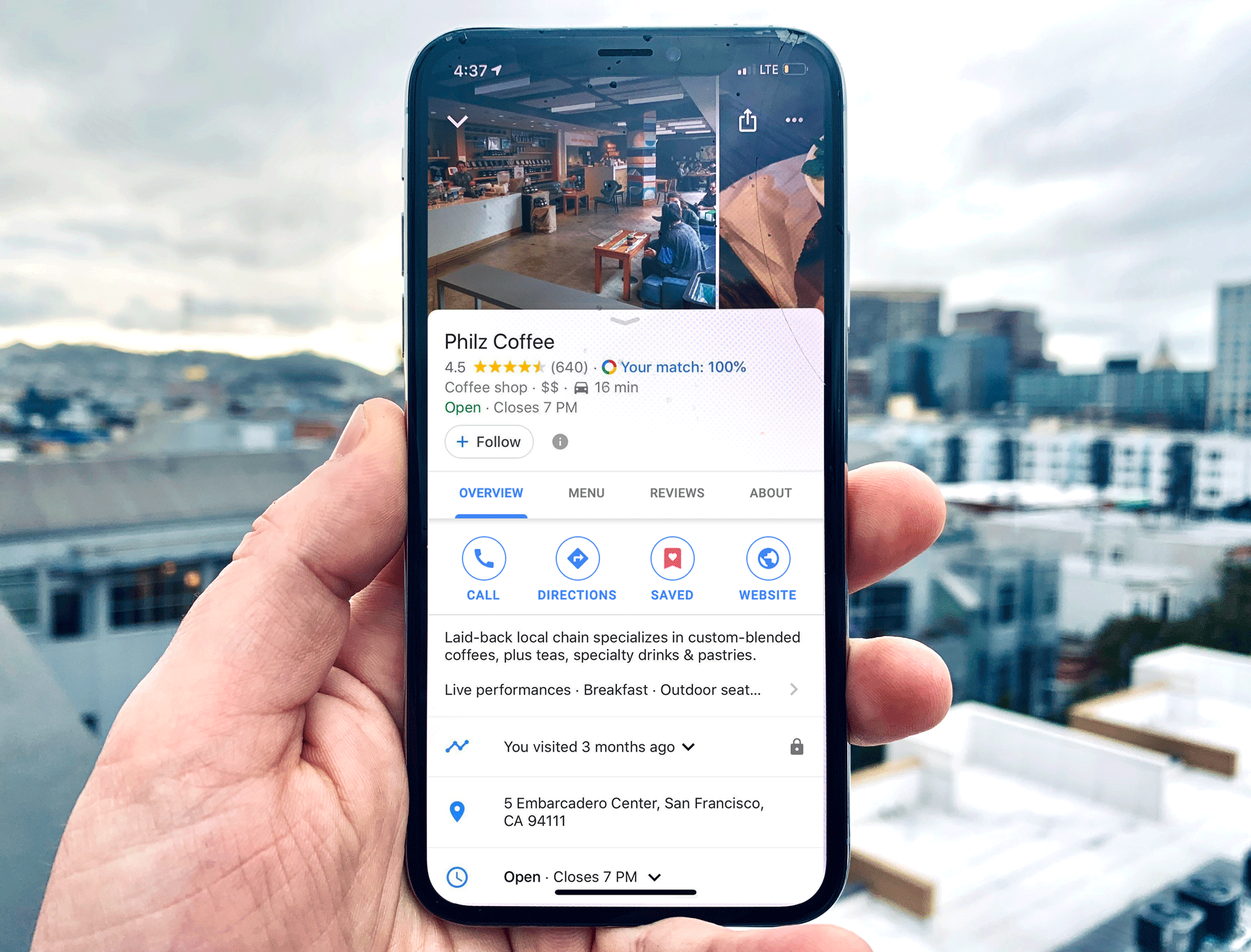
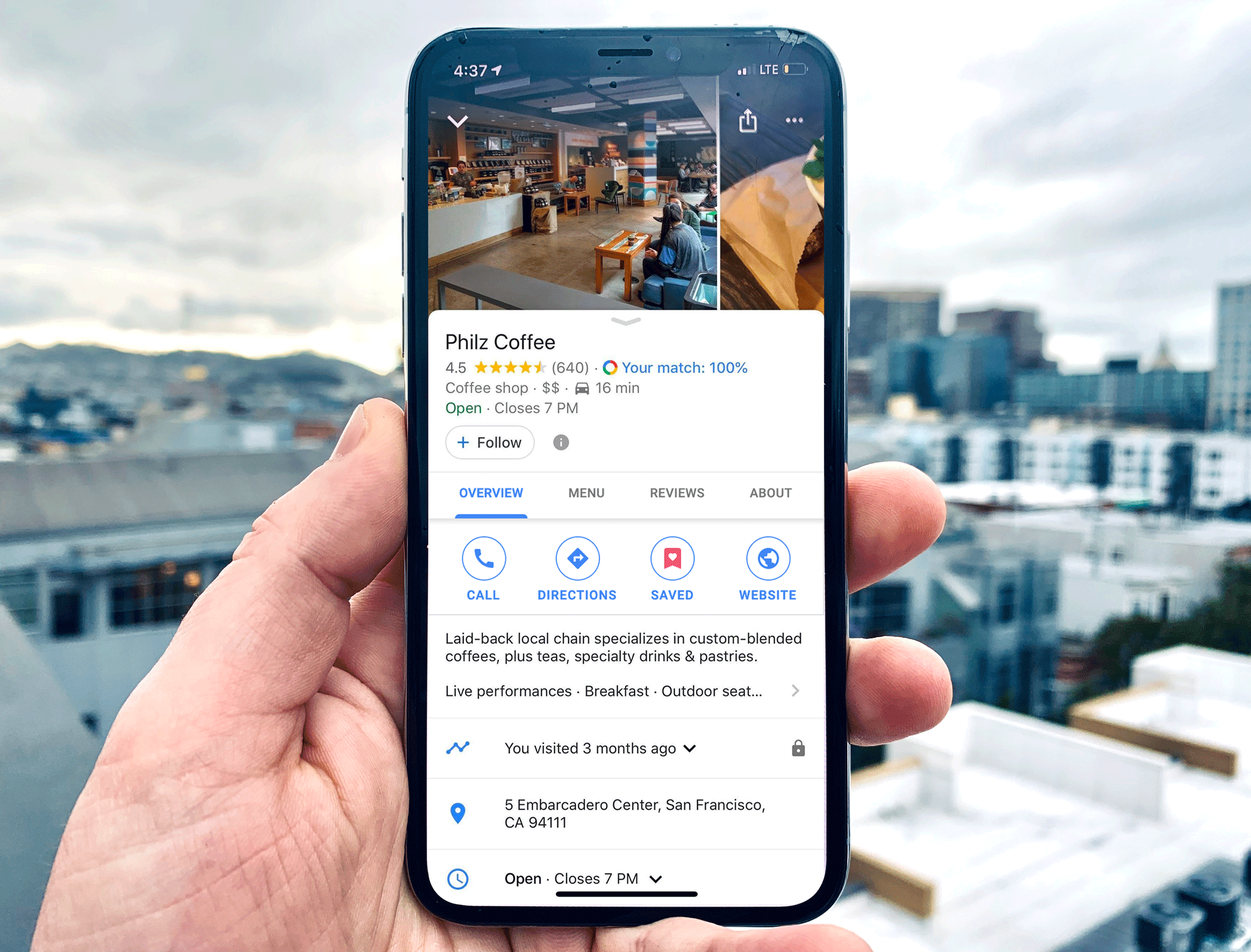
mod and hero image fixes

diff --git a/index.html b/index.html
@@ -1,6 +1,6 @@
 <!DOCTYPE html>
 <!--  This site was created in Webflow. http://www.webflow.com  -->
-<!--  Last Published: Sun Mar 10 2019 04:51:09 GMT+0000 (UTC)  -->
+<!--  Last Published: Sun Mar 10 2019 05:20:04 GMT+0000 (UTC)  -->
 <html data-wf-page="5c682f883ca6bd5b96341db9" data-wf-site="5c682f883ca6bd550a341db6">
 <head>
   <meta charset="utf-8">
@@ -201,7 +201,7 @@
     <a id="w-node-583f31672148-96341db9" href="javascript:delay(&#x27;/work/mod&#x27;)" class="link-block block_hero w-inline-block">
       <div class="case_study_label">
         <p class="paragraph case_study_label paragraph">Case Study<br></p>
-      </div><img src="images/Screen-Shot-2019-03-09-at-8.47.48-PM.png" srcset="images/Screen-Shot-2019-03-09-at-8.47.48-PM.png 500w, images/Screen-Shot-2019-03-09-at-8.47.48-PM.png 800w, images/Screen-Shot-2019-03-09-at-8.47.48-PM.png 1080w, images/Screen-Shot-2019-03-09-at-8.47.48-PM.png 1400w" sizes="100vw" alt="" class="thumb body_wide_thumb"></a>
+      </div><img src="images/Screen-Shot-2019-03-09-at-9.16.31-PM.png" srcset="images/Screen-Shot-2019-03-09-at-9.16.31-PM.png 500w, images/Screen-Shot-2019-03-09-at-9.16.31-PM.png 800w, images/Screen-Shot-2019-03-09-at-9.16.31-PM.png 1080w, images/Screen-Shot-2019-03-09-at-9.16.31-PM.png 1400w" sizes="100vw" alt="" class="thumb body_wide_thumb"></a>
   </div>
   <div class="w-layout-grid grid client_grid">
     <a id="w-node-d55bcbaaee77-96341db9" href="javascript:delay(&#x27;/work/zero-suggest&#x27;)" class="link-block block_hero w-inline-block">
@@ -276,7 +276,7 @@
         <h1 class="heading white centered">More things</h1>
         <h1 class="heading sub_heading white centered">Case Studies &amp; Experimental work</h1>
       </div>
-      <div class="w-layout-grid grid client_grid"><a id="w-node-2e2c5c173b9d-8a41de80" href="javascript:delay(&#x27;/work/live-popular-times&#x27;)" class="link-block block_hero w-inline-block"><img src="images/live.gif" alt="" class="thumb body_wide_thumb"></a><a id="w-node-182beba822ea-8a41de80" href="javascript:delay(&#x27;/work/mod&#x27;)" class="link-block block_hero w-inline-block"><img src="images/Screen-Shot-2019-03-09-at-8.47.48-PM.png" srcset="images/Screen-Shot-2019-03-09-at-8.47.48-PM.png 500w, images/Screen-Shot-2019-03-09-at-8.47.48-PM.png 800w, images/Screen-Shot-2019-03-09-at-8.47.48-PM.png 1080w, images/Screen-Shot-2019-03-09-at-8.47.48-PM.png 1400w" sizes="100vw" alt="" class="thumb body_wide_thumb"></a><a id="w-node-2e2c5c173b9f-8a41de80" href="https://dribbble.com/shots/5764349-Profile" target="_blank" class="link-block block_hero w-inline-block"><img src="images/sittinbythefire_4x.png" srcset="images/sittinbythefire_4x-p-500.png 500w, images/sittinbythefire_4x-p-800.png 800w, images/sittinbythefire_4x-p-1080.png 1080w, images/sittinbythefire_4x.png 1599w" sizes="100vw" alt="" class="thumb body_wide_thumb"></a><a href="javascript:delay(&#x27;/work/bookings&#x27;)" class="link-block block_hero w-inline-block"><img src="images/Screen-Shot-2019-02-17-at-10.57.33-AM.png" srcset="images/Screen-Shot-2019-02-17-at-10.57.33-AM-p-500.png 500w, images/Screen-Shot-2019-02-17-at-10.57.33-AM-p-800.png 800w, images/Screen-Shot-2019-02-17-at-10.57.33-AM-p-1080.png 1080w, images/Screen-Shot-2019-02-17-at-10.57.33-AM.png 1196w" sizes="100vw" alt="" class="thumb body_wide_thumb"></a></div>
+      <div class="w-layout-grid grid client_grid"><a id="w-node-2e2c5c173b9d-8a41de80" href="javascript:delay(&#x27;/work/live-popular-times&#x27;)" class="link-block block_hero w-inline-block"><img src="images/live.gif" alt="" class="thumb body_wide_thumb"></a><a id="w-node-182beba822ea-8a41de80" href="javascript:delay(&#x27;/work/mod&#x27;)" class="link-block block_hero w-inline-block"><img src="images/Screen-Shot-2019-03-09-at-9.16.31-PM.png" srcset="images/Screen-Shot-2019-03-09-at-9.16.31-PM.png 500w, images/Screen-Shot-2019-03-09-at-9.16.31-PM.png 800w, images/Screen-Shot-2019-03-09-at-9.16.31-PM.png 1080w, images/Screen-Shot-2019-03-09-at-9.16.31-PM.png 1400w" sizes="100vw" alt="" class="thumb body_wide_thumb"></a><a id="w-node-2e2c5c173b9f-8a41de80" href="https://dribbble.com/shots/5764349-Profile" target="_blank" class="link-block block_hero w-inline-block"><img src="images/sittinbythefire_4x.png" srcset="images/sittinbythefire_4x-p-500.png 500w, images/sittinbythefire_4x-p-800.png 800w, images/sittinbythefire_4x-p-1080.png 1080w, images/sittinbythefire_4x.png 1599w" sizes="100vw" alt="" class="thumb body_wide_thumb"></a><a href="javascript:delay(&#x27;/work/bookings&#x27;)" class="link-block block_hero w-inline-block"><img src="images/Screen-Shot-2019-02-17-at-10.57.33-AM.png" srcset="images/Screen-Shot-2019-02-17-at-10.57.33-AM-p-500.png 500w, images/Screen-Shot-2019-02-17-at-10.57.33-AM-p-800.png 800w, images/Screen-Shot-2019-02-17-at-10.57.33-AM-p-1080.png 1080w, images/Screen-Shot-2019-02-17-at-10.57.33-AM.png 1196w" sizes="100vw" alt="" class="thumb body_wide_thumb"></a></div>
       <div class="container_wrap footer_avatar w-container"><img src="images/favicon.png" alt="" class="image-2"></div>
     </div>
   </div>

diff --git a/work/bookings.html b/work/bookings.html
@@ -1,6 +1,6 @@
 <!DOCTYPE html>
 <!--  This site was created in Webflow. http://www.webflow.com  -->
-<!--  Last Published: Sun Mar 10 2019 04:51:09 GMT+0000 (UTC)  -->
+<!--  Last Published: Sun Mar 10 2019 05:20:04 GMT+0000 (UTC)  -->
 <html data-wf-page="5c682f883ca6bd24ac341dc2" data-wf-site="5c682f883ca6bd550a341db6">
 <head>
   <meta charset="utf-8">
@@ -202,7 +202,7 @@
         <h1 class="heading white centered">More things</h1>
         <h1 class="heading sub_heading white centered">Case Studies &amp; Experimental work</h1>
       </div>
-      <div class="w-layout-grid grid client_grid"><a id="w-node-2e2c5c173b9d-8a41de80" href="javascript:delay(&#x27;/work/live-popular-times&#x27;)" class="link-block block_hero w-inline-block"><img src="../images/live.gif" alt="" class="thumb body_wide_thumb"></a><a id="w-node-182beba822ea-8a41de80" href="javascript:delay(&#x27;/work/mod&#x27;)" class="link-block block_hero w-inline-block"><img src="../images/Screen-Shot-2019-03-09-at-8.47.48-PM.png" srcset="../images/Screen-Shot-2019-03-09-at-8.47.48-PM.png 500w, ../images/Screen-Shot-2019-03-09-at-8.47.48-PM.png 800w, ../images/Screen-Shot-2019-03-09-at-8.47.48-PM.png 1080w, ../images/Screen-Shot-2019-03-09-at-8.47.48-PM.png 1400w" sizes="100vw" alt="" class="thumb body_wide_thumb"></a><a id="w-node-2e2c5c173b9f-8a41de80" href="https://dribbble.com/shots/5764349-Profile" target="_blank" class="link-block block_hero w-inline-block"><img src="../images/sittinbythefire_4x.png" srcset="../images/sittinbythefire_4x-p-500.png 500w, ../images/sittinbythefire_4x-p-800.png 800w, ../images/sittinbythefire_4x-p-1080.png 1080w, ../images/sittinbythefire_4x.png 1599w" sizes="100vw" alt="" class="thumb body_wide_thumb"></a><a href="javascript:delay(&#x27;/work/bookings&#x27;)" class="link-block block_hero w-inline-block"><img src="../images/Screen-Shot-2019-02-17-at-10.57.33-AM.png" srcset="../images/Screen-Shot-2019-02-17-at-10.57.33-AM-p-500.png 500w, ../images/Screen-Shot-2019-02-17-at-10.57.33-AM-p-800.png 800w, ../images/Screen-Shot-2019-02-17-at-10.57.33-AM-p-1080.png 1080w, ../images/Screen-Shot-2019-02-17-at-10.57.33-AM.png 1196w" sizes="100vw" alt="" class="thumb body_wide_thumb"></a></div>
+      <div class="w-layout-grid grid client_grid"><a id="w-node-2e2c5c173b9d-8a41de80" href="javascript:delay(&#x27;/work/live-popular-times&#x27;)" class="link-block block_hero w-inline-block"><img src="../images/live.gif" alt="" class="thumb body_wide_thumb"></a><a id="w-node-182beba822ea-8a41de80" href="javascript:delay(&#x27;/work/mod&#x27;)" class="link-block block_hero w-inline-block"><img src="../images/Screen-Shot-2019-03-09-at-9.16.31-PM.png" srcset="../images/Screen-Shot-2019-03-09-at-9.16.31-PM.png 500w, ../images/Screen-Shot-2019-03-09-at-9.16.31-PM.png 800w, ../images/Screen-Shot-2019-03-09-at-9.16.31-PM.png 1080w, ../images/Screen-Shot-2019-03-09-at-9.16.31-PM.png 1400w" sizes="100vw" alt="" class="thumb body_wide_thumb"></a><a id="w-node-2e2c5c173b9f-8a41de80" href="https://dribbble.com/shots/5764349-Profile" target="_blank" class="link-block block_hero w-inline-block"><img src="../images/sittinbythefire_4x.png" srcset="../images/sittinbythefire_4x-p-500.png 500w, ../images/sittinbythefire_4x-p-800.png 800w, ../images/sittinbythefire_4x-p-1080.png 1080w, ../images/sittinbythefire_4x.png 1599w" sizes="100vw" alt="" class="thumb body_wide_thumb"></a><a href="javascript:delay(&#x27;/work/bookings&#x27;)" class="link-block block_hero w-inline-block"><img src="../images/Screen-Shot-2019-02-17-at-10.57.33-AM.png" srcset="../images/Screen-Shot-2019-02-17-at-10.57.33-AM-p-500.png 500w, ../images/Screen-Shot-2019-02-17-at-10.57.33-AM-p-800.png 800w, ../images/Screen-Shot-2019-02-17-at-10.57.33-AM-p-1080.png 1080w, ../images/Screen-Shot-2019-02-17-at-10.57.33-AM.png 1196w" sizes="100vw" alt="" class="thumb body_wide_thumb"></a></div>
       <div class="container_wrap footer_avatar w-container"><img src="../images/favicon.png" alt="" class="image-2"></div>
     </div>
   </div>

diff --git a/work/google-my-business.html b/work/google-my-business.html
@@ -1,6 +1,6 @@
 <!DOCTYPE html>
 <!--  This site was created in Webflow. http://www.webflow.com  -->
-<!--  Last Published: Sun Mar 10 2019 04:51:09 GMT+0000 (UTC)  -->
+<!--  Last Published: Sun Mar 10 2019 05:20:04 GMT+0000 (UTC)  -->
 <html data-wf-page="5c682f883ca6bd4e06341dbf" data-wf-site="5c682f883ca6bd550a341db6">
 <head>
   <meta charset="utf-8">
@@ -203,7 +203,7 @@
         <h1 class="heading white centered">More things</h1>
         <h1 class="heading sub_heading white centered">Case Studies &amp; Experimental work</h1>
       </div>
-      <div class="w-layout-grid grid client_grid"><a id="w-node-2e2c5c173b9d-8a41de80" href="javascript:delay(&#x27;/work/live-popular-times&#x27;)" class="link-block block_hero w-inline-block"><img src="../images/live.gif" alt="" class="thumb body_wide_thumb"></a><a id="w-node-182beba822ea-8a41de80" href="javascript:delay(&#x27;/work/mod&#x27;)" class="link-block block_hero w-inline-block"><img src="../images/Screen-Shot-2019-03-09-at-8.47.48-PM.png" srcset="../images/Screen-Shot-2019-03-09-at-8.47.48-PM.png 500w, ../images/Screen-Shot-2019-03-09-at-8.47.48-PM.png 800w, ../images/Screen-Shot-2019-03-09-at-8.47.48-PM.png 1080w, ../images/Screen-Shot-2019-03-09-at-8.47.48-PM.png 1400w" sizes="100vw" alt="" class="thumb body_wide_thumb"></a><a id="w-node-2e2c5c173b9f-8a41de80" href="https://dribbble.com/shots/5764349-Profile" target="_blank" class="link-block block_hero w-inline-block"><img src="../images/sittinbythefire_4x.png" srcset="../images/sittinbythefire_4x-p-500.png 500w, ../images/sittinbythefire_4x-p-800.png 800w, ../images/sittinbythefire_4x-p-1080.png 1080w, ../images/sittinbythefire_4x.png 1599w" sizes="100vw" alt="" class="thumb body_wide_thumb"></a><a href="javascript:delay(&#x27;/work/bookings&#x27;)" class="link-block block_hero w-inline-block"><img src="../images/Screen-Shot-2019-02-17-at-10.57.33-AM.png" srcset="../images/Screen-Shot-2019-02-17-at-10.57.33-AM-p-500.png 500w, ../images/Screen-Shot-2019-02-17-at-10.57.33-AM-p-800.png 800w, ../images/Screen-Shot-2019-02-17-at-10.57.33-AM-p-1080.png 1080w, ../images/Screen-Shot-2019-02-17-at-10.57.33-AM.png 1196w" sizes="100vw" alt="" class="thumb body_wide_thumb"></a></div>
+      <div class="w-layout-grid grid client_grid"><a id="w-node-2e2c5c173b9d-8a41de80" href="javascript:delay(&#x27;/work/live-popular-times&#x27;)" class="link-block block_hero w-inline-block"><img src="../images/live.gif" alt="" class="thumb body_wide_thumb"></a><a id="w-node-182beba822ea-8a41de80" href="javascript:delay(&#x27;/work/mod&#x27;)" class="link-block block_hero w-inline-block"><img src="../images/Screen-Shot-2019-03-09-at-9.16.31-PM.png" srcset="../images/Screen-Shot-2019-03-09-at-9.16.31-PM.png 500w, ../images/Screen-Shot-2019-03-09-at-9.16.31-PM.png 800w, ../images/Screen-Shot-2019-03-09-at-9.16.31-PM.png 1080w, ../images/Screen-Shot-2019-03-09-at-9.16.31-PM.png 1400w" sizes="100vw" alt="" class="thumb body_wide_thumb"></a><a id="w-node-2e2c5c173b9f-8a41de80" href="https://dribbble.com/shots/5764349-Profile" target="_blank" class="link-block block_hero w-inline-block"><img src="../images/sittinbythefire_4x.png" srcset="../images/sittinbythefire_4x-p-500.png 500w, ../images/sittinbythefire_4x-p-800.png 800w, ../images/sittinbythefire_4x-p-1080.png 1080w, ../images/sittinbythefire_4x.png 1599w" sizes="100vw" alt="" class="thumb body_wide_thumb"></a><a href="javascript:delay(&#x27;/work/bookings&#x27;)" class="link-block block_hero w-inline-block"><img src="../images/Screen-Shot-2019-02-17-at-10.57.33-AM.png" srcset="../images/Screen-Shot-2019-02-17-at-10.57.33-AM-p-500.png 500w, ../images/Screen-Shot-2019-02-17-at-10.57.33-AM-p-800.png 800w, ../images/Screen-Shot-2019-02-17-at-10.57.33-AM-p-1080.png 1080w, ../images/Screen-Shot-2019-02-17-at-10.57.33-AM.png 1196w" sizes="100vw" alt="" class="thumb body_wide_thumb"></a></div>
       <div class="container_wrap footer_avatar w-container"><img src="../images/favicon.png" alt="" class="image-2"></div>
     </div>
   </div>

diff --git a/work/live-popular-times.html b/work/live-popular-times.html
@@ -1,6 +1,6 @@
 <!DOCTYPE html>
 <!--  This site was created in Webflow. http://www.webflow.com  -->
-<!--  Last Published: Sun Mar 10 2019 04:51:09 GMT+0000 (UTC)  -->
+<!--  Last Published: Sun Mar 10 2019 05:20:04 GMT+0000 (UTC)  -->
 <html data-wf-page="5c682f883ca6bd3308341dbe" data-wf-site="5c682f883ca6bd550a341db6">
 <head>
   <meta charset="utf-8">
@@ -207,7 +207,7 @@
         <h1 class="heading white centered">More things</h1>
         <h1 class="heading sub_heading white centered">Case Studies &amp; Experimental work</h1>
       </div>
-      <div class="w-layout-grid grid client_grid"><a id="w-node-2e2c5c173b9d-8a41de80" href="javascript:delay(&#x27;/work/live-popular-times&#x27;)" class="link-block block_hero w-inline-block"><img src="../images/live.gif" alt="" class="thumb body_wide_thumb"></a><a id="w-node-182beba822ea-8a41de80" href="javascript:delay(&#x27;/work/mod&#x27;)" class="link-block block_hero w-inline-block"><img src="../images/Screen-Shot-2019-03-09-at-8.47.48-PM.png" srcset="../images/Screen-Shot-2019-03-09-at-8.47.48-PM.png 500w, ../images/Screen-Shot-2019-03-09-at-8.47.48-PM.png 800w, ../images/Screen-Shot-2019-03-09-at-8.47.48-PM.png 1080w, ../images/Screen-Shot-2019-03-09-at-8.47.48-PM.png 1400w" sizes="100vw" alt="" class="thumb body_wide_thumb"></a><a id="w-node-2e2c5c173b9f-8a41de80" href="https://dribbble.com/shots/5764349-Profile" target="_blank" class="link-block block_hero w-inline-block"><img src="../images/sittinbythefire_4x.png" srcset="../images/sittinbythefire_4x-p-500.png 500w, ../images/sittinbythefire_4x-p-800.png 800w, ../images/sittinbythefire_4x-p-1080.png 1080w, ../images/sittinbythefire_4x.png 1599w" sizes="100vw" alt="" class="thumb body_wide_thumb"></a><a href="javascript:delay(&#x27;/work/bookings&#x27;)" class="link-block block_hero w-inline-block"><img src="../images/Screen-Shot-2019-02-17-at-10.57.33-AM.png" srcset="../images/Screen-Shot-2019-02-17-at-10.57.33-AM-p-500.png 500w, ../images/Screen-Shot-2019-02-17-at-10.57.33-AM-p-800.png 800w, ../images/Screen-Shot-2019-02-17-at-10.57.33-AM-p-1080.png 1080w, ../images/Screen-Shot-2019-02-17-at-10.57.33-AM.png 1196w" sizes="100vw" alt="" class="thumb body_wide_thumb"></a></div>
+      <div class="w-layout-grid grid client_grid"><a id="w-node-2e2c5c173b9d-8a41de80" href="javascript:delay(&#x27;/work/live-popular-times&#x27;)" class="link-block block_hero w-inline-block"><img src="../images/live.gif" alt="" class="thumb body_wide_thumb"></a><a id="w-node-182beba822ea-8a41de80" href="javascript:delay(&#x27;/work/mod&#x27;)" class="link-block block_hero w-inline-block"><img src="../images/Screen-Shot-2019-03-09-at-9.16.31-PM.png" srcset="../images/Screen-Shot-2019-03-09-at-9.16.31-PM.png 500w, ../images/Screen-Shot-2019-03-09-at-9.16.31-PM.png 800w, ../images/Screen-Shot-2019-03-09-at-9.16.31-PM.png 1080w, ../images/Screen-Shot-2019-03-09-at-9.16.31-PM.png 1400w" sizes="100vw" alt="" class="thumb body_wide_thumb"></a><a id="w-node-2e2c5c173b9f-8a41de80" href="https://dribbble.com/shots/5764349-Profile" target="_blank" class="link-block block_hero w-inline-block"><img src="../images/sittinbythefire_4x.png" srcset="../images/sittinbythefire_4x-p-500.png 500w, ../images/sittinbythefire_4x-p-800.png 800w, ../images/sittinbythefire_4x-p-1080.png 1080w, ../images/sittinbythefire_4x.png 1599w" sizes="100vw" alt="" class="thumb body_wide_thumb"></a><a href="javascript:delay(&#x27;/work/bookings&#x27;)" class="link-block block_hero w-inline-block"><img src="../images/Screen-Shot-2019-02-17-at-10.57.33-AM.png" srcset="../images/Screen-Shot-2019-02-17-at-10.57.33-AM-p-500.png 500w, ../images/Screen-Shot-2019-02-17-at-10.57.33-AM-p-800.png 800w, ../images/Screen-Shot-2019-02-17-at-10.57.33-AM-p-1080.png 1080w, ../images/Screen-Shot-2019-02-17-at-10.57.33-AM.png 1196w" sizes="100vw" alt="" class="thumb body_wide_thumb"></a></div>
       <div class="container_wrap footer_avatar w-container"><img src="../images/favicon.png" alt="" class="image-2"></div>
     </div>
   </div>

diff --git a/work/mod.html b/work/mod.html
@@ -1,6 +1,6 @@
 <!DOCTYPE html>
 <!--  This site was created in Webflow. http://www.webflow.com  -->
-<!--  Last Published: Sun Mar 10 2019 04:51:09 GMT+0000 (UTC)  -->
+<!--  Last Published: Sun Mar 10 2019 05:20:04 GMT+0000 (UTC)  -->
 <html data-wf-page="5c682f883ca6bd8cb0341dbd" data-wf-site="5c682f883ca6bd550a341db6">
 <head>
   <meta charset="utf-8">
@@ -209,7 +209,7 @@
         <h1 class="heading white centered">More things</h1>
         <h1 class="heading sub_heading white centered">Case Studies &amp; Experimental work</h1>
       </div>
-      <div class="w-layout-grid grid client_grid"><a id="w-node-2e2c5c173b9d-8a41de80" href="javascript:delay(&#x27;/work/live-popular-times&#x27;)" class="link-block block_hero w-inline-block"><img src="../images/live.gif" alt="" class="thumb body_wide_thumb"></a><a id="w-node-182beba822ea-8a41de80" href="javascript:delay(&#x27;/work/mod&#x27;)" class="link-block block_hero w-inline-block"><img src="../images/Screen-Shot-2019-03-09-at-8.47.48-PM.png" srcset="../images/Screen-Shot-2019-03-09-at-8.47.48-PM.png 500w, ../images/Screen-Shot-2019-03-09-at-8.47.48-PM.png 800w, ../images/Screen-Shot-2019-03-09-at-8.47.48-PM.png 1080w, ../images/Screen-Shot-2019-03-09-at-8.47.48-PM.png 1400w" sizes="100vw" alt="" class="thumb body_wide_thumb"></a><a id="w-node-2e2c5c173b9f-8a41de80" href="https://dribbble.com/shots/5764349-Profile" target="_blank" class="link-block block_hero w-inline-block"><img src="../images/sittinbythefire_4x.png" srcset="../images/sittinbythefire_4x-p-500.png 500w, ../images/sittinbythefire_4x-p-800.png 800w, ../images/sittinbythefire_4x-p-1080.png 1080w, ../images/sittinbythefire_4x.png 1599w" sizes="100vw" alt="" class="thumb body_wide_thumb"></a><a href="javascript:delay(&#x27;/work/bookings&#x27;)" class="link-block block_hero w-inline-block"><img src="../images/Screen-Shot-2019-02-17-at-10.57.33-AM.png" srcset="../images/Screen-Shot-2019-02-17-at-10.57.33-AM-p-500.png 500w, ../images/Screen-Shot-2019-02-17-at-10.57.33-AM-p-800.png 800w, ../images/Screen-Shot-2019-02-17-at-10.57.33-AM-p-1080.png 1080w, ../images/Screen-Shot-2019-02-17-at-10.57.33-AM.png 1196w" sizes="100vw" alt="" class="thumb body_wide_thumb"></a></div>
+      <div class="w-layout-grid grid client_grid"><a id="w-node-2e2c5c173b9d-8a41de80" href="javascript:delay(&#x27;/work/live-popular-times&#x27;)" class="link-block block_hero w-inline-block"><img src="../images/live.gif" alt="" class="thumb body_wide_thumb"></a><a id="w-node-182beba822ea-8a41de80" href="javascript:delay(&#x27;/work/mod&#x27;)" class="link-block block_hero w-inline-block"><img src="../images/Screen-Shot-2019-03-09-at-9.16.31-PM.png" srcset="../images/Screen-Shot-2019-03-09-at-9.16.31-PM.png 500w, ../images/Screen-Shot-2019-03-09-at-9.16.31-PM.png 800w, ../images/Screen-Shot-2019-03-09-at-9.16.31-PM.png 1080w, ../images/Screen-Shot-2019-03-09-at-9.16.31-PM.png 1400w" sizes="100vw" alt="" class="thumb body_wide_thumb"></a><a id="w-node-2e2c5c173b9f-8a41de80" href="https://dribbble.com/shots/5764349-Profile" target="_blank" class="link-block block_hero w-inline-block"><img src="../images/sittinbythefire_4x.png" srcset="../images/sittinbythefire_4x-p-500.png 500w, ../images/sittinbythefire_4x-p-800.png 800w, ../images/sittinbythefire_4x-p-1080.png 1080w, ../images/sittinbythefire_4x.png 1599w" sizes="100vw" alt="" class="thumb body_wide_thumb"></a><a href="javascript:delay(&#x27;/work/bookings&#x27;)" class="link-block block_hero w-inline-block"><img src="../images/Screen-Shot-2019-02-17-at-10.57.33-AM.png" srcset="../images/Screen-Shot-2019-02-17-at-10.57.33-AM-p-500.png 500w, ../images/Screen-Shot-2019-02-17-at-10.57.33-AM-p-800.png 800w, ../images/Screen-Shot-2019-02-17-at-10.57.33-AM-p-1080.png 1080w, ../images/Screen-Shot-2019-02-17-at-10.57.33-AM.png 1196w" sizes="100vw" alt="" class="thumb body_wide_thumb"></a></div>
       <div class="container_wrap footer_avatar w-container"><img src="../images/favicon.png" alt="" class="image-2"></div>
     </div>
   </div>

diff --git a/work/wait-times.html b/work/wait-times.html
@@ -1,6 +1,6 @@
 <!DOCTYPE html>
 <!--  This site was created in Webflow. http://www.webflow.com  -->
-<!--  Last Published: Sun Mar 10 2019 04:51:09 GMT+0000 (UTC)  -->
+<!--  Last Published: Sun Mar 10 2019 05:20:04 GMT+0000 (UTC)  -->
 <html data-wf-page="5c682f883ca6bd4a7d341dc1" data-wf-site="5c682f883ca6bd550a341db6">
 <head>
   <meta charset="utf-8">
@@ -205,7 +205,7 @@
         <h1 class="heading white centered">More things</h1>
         <h1 class="heading sub_heading white centered">Case Studies &amp; Experimental work</h1>
       </div>
-      <div class="w-layout-grid grid client_grid"><a id="w-node-2e2c5c173b9d-8a41de80" href="javascript:delay(&#x27;/work/live-popular-times&#x27;)" class="link-block block_hero w-inline-block"><img src="../images/live.gif" alt="" class="thumb body_wide_thumb"></a><a id="w-node-182beba822ea-8a41de80" href="javascript:delay(&#x27;/work/mod&#x27;)" class="link-block block_hero w-inline-block"><img src="../images/Screen-Shot-2019-03-09-at-8.47.48-PM.png" srcset="../images/Screen-Shot-2019-03-09-at-8.47.48-PM.png 500w, ../images/Screen-Shot-2019-03-09-at-8.47.48-PM.png 800w, ../images/Screen-Shot-2019-03-09-at-8.47.48-PM.png 1080w, ../images/Screen-Shot-2019-03-09-at-8.47.48-PM.png 1400w" sizes="100vw" alt="" class="thumb body_wide_thumb"></a><a id="w-node-2e2c5c173b9f-8a41de80" href="https://dribbble.com/shots/5764349-Profile" target="_blank" class="link-block block_hero w-inline-block"><img src="../images/sittinbythefire_4x.png" srcset="../images/sittinbythefire_4x-p-500.png 500w, ../images/sittinbythefire_4x-p-800.png 800w, ../images/sittinbythefire_4x-p-1080.png 1080w, ../images/sittinbythefire_4x.png 1599w" sizes="100vw" alt="" class="thumb body_wide_thumb"></a><a href="javascript:delay(&#x27;/work/bookings&#x27;)" class="link-block block_hero w-inline-block"><img src="../images/Screen-Shot-2019-02-17-at-10.57.33-AM.png" srcset="../images/Screen-Shot-2019-02-17-at-10.57.33-AM-p-500.png 500w, ../images/Screen-Shot-2019-02-17-at-10.57.33-AM-p-800.png 800w, ../images/Screen-Shot-2019-02-17-at-10.57.33-AM-p-1080.png 1080w, ../images/Screen-Shot-2019-02-17-at-10.57.33-AM.png 1196w" sizes="100vw" alt="" class="thumb body_wide_thumb"></a></div>
+      <div class="w-layout-grid grid client_grid"><a id="w-node-2e2c5c173b9d-8a41de80" href="javascript:delay(&#x27;/work/live-popular-times&#x27;)" class="link-block block_hero w-inline-block"><img src="../images/live.gif" alt="" class="thumb body_wide_thumb"></a><a id="w-node-182beba822ea-8a41de80" href="javascript:delay(&#x27;/work/mod&#x27;)" class="link-block block_hero w-inline-block"><img src="../images/Screen-Shot-2019-03-09-at-9.16.31-PM.png" srcset="../images/Screen-Shot-2019-03-09-at-9.16.31-PM.png 500w, ../images/Screen-Shot-2019-03-09-at-9.16.31-PM.png 800w, ../images/Screen-Shot-2019-03-09-at-9.16.31-PM.png 1080w, ../images/Screen-Shot-2019-03-09-at-9.16.31-PM.png 1400w" sizes="100vw" alt="" class="thumb body_wide_thumb"></a><a id="w-node-2e2c5c173b9f-8a41de80" href="https://dribbble.com/shots/5764349-Profile" target="_blank" class="link-block block_hero w-inline-block"><img src="../images/sittinbythefire_4x.png" srcset="../images/sittinbythefire_4x-p-500.png 500w, ../images/sittinbythefire_4x-p-800.png 800w, ../images/sittinbythefire_4x-p-1080.png 1080w, ../images/sittinbythefire_4x.png 1599w" sizes="100vw" alt="" class="thumb body_wide_thumb"></a><a href="javascript:delay(&#x27;/work/bookings&#x27;)" class="link-block block_hero w-inline-block"><img src="../images/Screen-Shot-2019-02-17-at-10.57.33-AM.png" srcset="../images/Screen-Shot-2019-02-17-at-10.57.33-AM-p-500.png 500w, ../images/Screen-Shot-2019-02-17-at-10.57.33-AM-p-800.png 800w, ../images/Screen-Shot-2019-02-17-at-10.57.33-AM-p-1080.png 1080w, ../images/Screen-Shot-2019-02-17-at-10.57.33-AM.png 1196w" sizes="100vw" alt="" class="thumb body_wide_thumb"></a></div>
       <div class="container_wrap footer_avatar w-container"><img src="../images/favicon.png" alt="" class="image-2"></div>
     </div>
   </div>

diff --git a/work/zero-suggest.html b/work/zero-suggest.html
@@ -1,6 +1,6 @@
 <!DOCTYPE html>
 <!--  This site was created in Webflow. http://www.webflow.com  -->
-<!--  Last Published: Sun Mar 10 2019 04:51:09 GMT+0000 (UTC)  -->
+<!--  Last Published: Sun Mar 10 2019 05:20:04 GMT+0000 (UTC)  -->
 <html data-wf-page="5c682f883ca6bd58c1341dc0" data-wf-site="5c682f883ca6bd550a341db6">
 <head>
   <meta charset="utf-8">
@@ -203,7 +203,7 @@
         <h1 class="heading white centered">More things</h1>
         <h1 class="heading sub_heading white centered">Case Studies &amp; Experimental work</h1>
       </div>
-      <div class="w-layout-grid grid client_grid"><a id="w-node-2e2c5c173b9d-8a41de80" href="javascript:delay(&#x27;/work/live-popular-times&#x27;)" class="link-block block_hero w-inline-block"><img src="../images/live.gif" alt="" class="thumb body_wide_thumb"></a><a id="w-node-182beba822ea-8a41de80" href="javascript:delay(&#x27;/work/mod&#x27;)" class="link-block block_hero w-inline-block"><img src="../images/Screen-Shot-2019-03-09-at-8.47.48-PM.png" srcset="../images/Screen-Shot-2019-03-09-at-8.47.48-PM.png 500w, ../images/Screen-Shot-2019-03-09-at-8.47.48-PM.png 800w, ../images/Screen-Shot-2019-03-09-at-8.47.48-PM.png 1080w, ../images/Screen-Shot-2019-03-09-at-8.47.48-PM.png 1400w" sizes="100vw" alt="" class="thumb body_wide_thumb"></a><a id="w-node-2e2c5c173b9f-8a41de80" href="https://dribbble.com/shots/5764349-Profile" target="_blank" class="link-block block_hero w-inline-block"><img src="../images/sittinbythefire_4x.png" srcset="../images/sittinbythefire_4x-p-500.png 500w, ../images/sittinbythefire_4x-p-800.png 800w, ../images/sittinbythefire_4x-p-1080.png 1080w, ../images/sittinbythefire_4x.png 1599w" sizes="100vw" alt="" class="thumb body_wide_thumb"></a><a href="javascript:delay(&#x27;/work/bookings&#x27;)" class="link-block block_hero w-inline-block"><img src="../images/Screen-Shot-2019-02-17-at-10.57.33-AM.png" srcset="../images/Screen-Shot-2019-02-17-at-10.57.33-AM-p-500.png 500w, ../images/Screen-Shot-2019-02-17-at-10.57.33-AM-p-800.png 800w, ../images/Screen-Shot-2019-02-17-at-10.57.33-AM-p-1080.png 1080w, ../images/Screen-Shot-2019-02-17-at-10.57.33-AM.png 1196w" sizes="100vw" alt="" class="thumb body_wide_thumb"></a></div>
+      <div class="w-layout-grid grid client_grid"><a id="w-node-2e2c5c173b9d-8a41de80" href="javascript:delay(&#x27;/work/live-popular-times&#x27;)" class="link-block block_hero w-inline-block"><img src="../images/live.gif" alt="" class="thumb body_wide_thumb"></a><a id="w-node-182beba822ea-8a41de80" href="javascript:delay(&#x27;/work/mod&#x27;)" class="link-block block_hero w-inline-block"><img src="../images/Screen-Shot-2019-03-09-at-9.16.31-PM.png" srcset="../images/Screen-Shot-2019-03-09-at-9.16.31-PM.png 500w, ../images/Screen-Shot-2019-03-09-at-9.16.31-PM.png 800w, ../images/Screen-Shot-2019-03-09-at-9.16.31-PM.png 1080w, ../images/Screen-Shot-2019-03-09-at-9.16.31-PM.png 1400w" sizes="100vw" alt="" class="thumb body_wide_thumb"></a><a id="w-node-2e2c5c173b9f-8a41de80" href="https://dribbble.com/shots/5764349-Profile" target="_blank" class="link-block block_hero w-inline-block"><img src="../images/sittinbythefire_4x.png" srcset="../images/sittinbythefire_4x-p-500.png 500w, ../images/sittinbythefire_4x-p-800.png 800w, ../images/sittinbythefire_4x-p-1080.png 1080w, ../images/sittinbythefire_4x.png 1599w" sizes="100vw" alt="" class="thumb body_wide_thumb"></a><a href="javascript:delay(&#x27;/work/bookings&#x27;)" class="link-block block_hero w-inline-block"><img src="../images/Screen-Shot-2019-02-17-at-10.57.33-AM.png" srcset="../images/Screen-Shot-2019-02-17-at-10.57.33-AM-p-500.png 500w, ../images/Screen-Shot-2019-02-17-at-10.57.33-AM-p-800.png 800w, ../images/Screen-Shot-2019-02-17-at-10.57.33-AM-p-1080.png 1080w, ../images/Screen-Shot-2019-02-17-at-10.57.33-AM.png 1196w" sizes="100vw" alt="" class="thumb body_wide_thumb"></a></div>
       <div class="container_wrap footer_avatar w-container"><img src="../images/favicon.png" alt="" class="image-2"></div>
     </div>
   </div>
